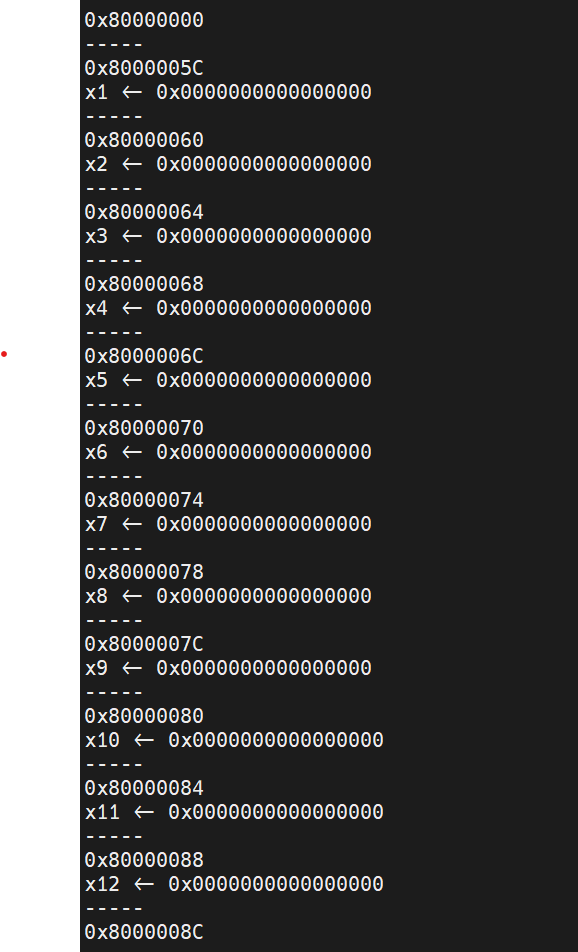
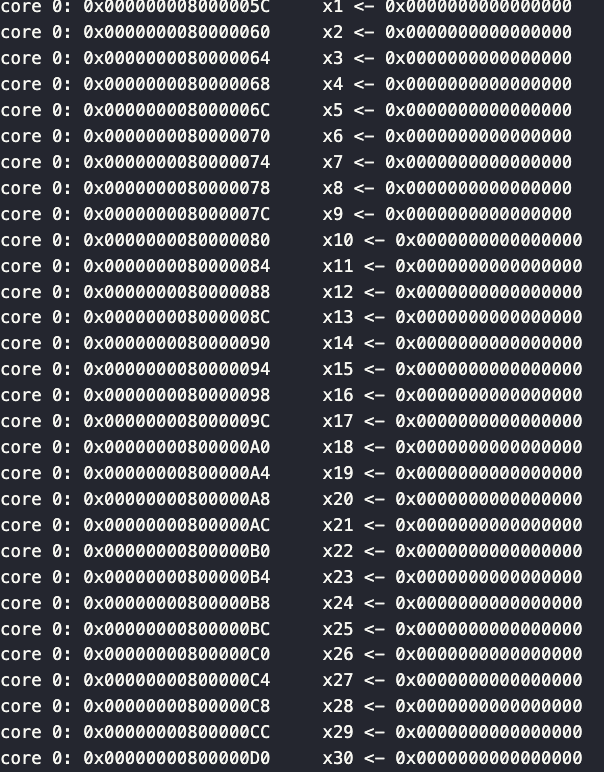
lab1 rpt

diff --git a/co-sim/cosim.cpp b/co-sim/cosim.cpp
@@ -41,7 +41,6 @@ long long csr_value;
 
 extern void csr_monitor(int address, svLogic csr_write_valid, long long write_data){ //将信息保存下来， 在commit时使用
     if(csr_monitor_read && csr_write_valid){
-        // printf("3 %s\n", csr_name);
         csr_need_print = true;
         switch(address){
             case 0x305:  //mtvec
@@ -63,12 +62,13 @@ extern void csr_monitor(int address, svLogic csr_write_valid, long long write_da
 //embed this function in rcu, when one instruction is commited, print it in the log file  
 extern void log_print(svLogic co_commit, int co_pc_in, svLogic co_store_in, svLogic co_fence, svLogic co_mret, svLogic co_wfi,  svLogic co_uses_csr, int co_rob_rd, svLogic co_csr_iss_ctrl, int co_prf_name, int co_csr_address){
     if(co_commit){
-        coprint("-----\n");
-        coprint("0x%08X\n", co_pc_in);
+        coprint("core 0: 0x00000000%08X     ", co_pc_in);
         if(co_uses_csr){  //Zicsr
             if(csr_need_print){
                 coprint("CSR %s <- 0x%016lX\n", csr_name, csr_value);
                 csr_need_print = false;
+            } else{
+                coprint("\n");
             }
             if(co_rob_rd && csr_monitor_read){
                 coprint("x%d <- 0x%016lX\n", co_rob_rd, preg[co_prf_name]);
@@ -85,8 +85,9 @@ extern void log_print(svLogic co_commit, int co_pc_in, svLogic co_store_in, svLo
             if(!co_uses_csr){
                 if(co_rob_rd){
                     coprint("x%d <- 0x%016lX\n", co_rob_rd, preg[co_prf_name]);
+                } else {
+                    coprint("\n");
                 }
-                    
             }
         }
     }

diff --git a/rpt/lab_1.md b/rpt/lab_1.md
@@ -17,7 +17,7 @@ The verification environment is located at **./verilog/dv**.
 ![](./images/spike-log.png)
 2. Use DPI to embed probe into core and print executing log, which is stored in **./verilog/dv/greenrio_log.txt**.
 ![](./images/hehe-log.png)
-### Open EDA flow
+## Open EDA flow
 1. SKY130A synthesis
     **./backend_log/RUN_1** records the GreenRio synthesis flow.
     the corner constraint is as follows:
